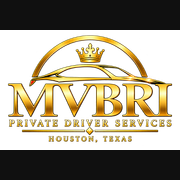
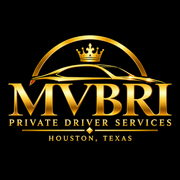
Polish MVBRI branding and remove the optional tip cap

diff --git a/privacy.html b/privacy.html
@@ -1,1 +1,1 @@
-<!doctype html><html lang="en"><head><meta charset="utf-8"><meta name="viewport" content="width=device-width,initial-scale=1"><title>Privacy | MVBRI</title><link rel="icon" href="/favicon.ico"><link rel="stylesheet" href="/assets/branding.css"><style>body{margin:0;background:#101010;color:#f6f3ed;font:16px/1.7 Arial,sans-serif}main{max-width:760px;margin:35px auto;padding:25px}h1,h2{font-family:Georgia,serif}a{color:#c8a96b}</style></head><body><main><a href="/"><img class="brand-logo" src="/assets/mvbri-logo.png" alt="MVBRI" width="156" height="104"></a><h1>Privacy notice</h1><p>MVBRI uses the name, phone number, email address, route, date, time and other ride details you submit to manage requests, provide quotes and deliver your ride. Please do not enter card numbers, medical details or other sensitive information in the booking form or messages.</p><h2>Ride updates</h2><p>Automated updates are optional. You can choose email, text messages or no automated updates. Messages may cover your request, quote, booking status, payments, and a receipt and optional tip link after completion and verified payment. Message frequency varies with your ride. Message and data rates may apply to texts.</p><p>Mobile numbers and SMS opt-in consent are not shared with third parties or affiliates for marketing or promotional purposes. Information needed to deliver your selected updates may be processed by our messaging service providers. We do not sell your messaging consent.</p><h2>Payments and service providers</h2><p>Booking records are stored using Cloudflare. Square securely handles payments; MVBRI does not collect card details on this site. Your booking name and email may be shared with Square to prepare a balance invoice. Email updates use our email provider; text updates use our connected business messaging provider when activated. Private customer information and messages are restricted to authorized business access.</p><h2>Your choices</h2><p>Use the preference link in an email to change or stop automated ride updates. Reply STOP to stop texts or HELP for help. Contact us to ask about your booking information or communication preference. Declining automated messages does not prevent you from requesting a ride.</p><p>Customer reviews are published only with permission and owner moderation. Published reviews exclude booking references and contact details.</p><h2>Contact</h2><p>MVBRI · Houston, Texas<br><a href="tel:+13465575796">(346) 557-5796</a><br><a href="mailto:mvbriofficial@gmail.com">mvbriofficial@gmail.com</a></p><p><a href="/messaging-terms.html">Messaging terms</a> · <a href="/">Return home</a></p></main></body></html>
+<!doctype html><html lang="en"><head><meta charset="utf-8"><meta name="viewport" content="width=device-width,initial-scale=1"><meta name="theme-color" content="#000000"><title>Privacy | MVBRI</title><link rel="icon" href="/favicon.ico?v=2"><link rel="icon" href="/assets/favicon.png?v=2" type="image/png" sizes="64x64"><link rel="apple-touch-icon" href="/assets/apple-touch-icon.png?v=2"><link rel="stylesheet" href="/assets/branding.css"><style>body{margin:0;background:#101010;color:#f6f3ed;font:16px/1.7 Arial,sans-serif}main{max-width:760px;margin:35px auto;padding:25px}h1,h2{font-family:Georgia,serif}a{color:#c8a96b}</style></head><body><main><a href="/"><img class="brand-logo" src="/assets/mvbri-logo.png" alt="MVBRI" width="156" height="104"></a><h1>Privacy notice</h1><p>MVBRI uses the name, phone number, email address, route, date, time and other ride details you submit to manage requests, provide quotes and deliver your ride. Please do not enter card numbers, medical details or other sensitive information in the booking form or messages.</p><h2>Ride updates</h2><p>Automated updates are optional. You can choose email, text messages or no automated updates. Messages may cover your request, quote, booking status, payments, and a receipt and optional tip link after completion and verified payment. Message frequency varies with your ride. Message and data rates may apply to texts.</p><p>Mobile numbers and SMS opt-in consent are not shared with third parties or affiliates for marketing or promotional purposes. Information needed to deliver your selected updates may be processed by our messaging service providers. We do not sell your messaging consent.</p><h2>Payments and service providers</h2><p>Booking records are stored using Cloudflare. Square securely handles payments; MVBRI does not collect card details on this site. Your booking name and email may be shared with Square to prepare a balance invoice. Email updates use our email provider; text updates use our connected business messaging provider when activated. Private customer information and messages are restricted to authorized business access.</p><h2>Your choices</h2><p>Use the preference link in an email to change or stop automated ride updates. Reply STOP to stop texts or HELP for help. Contact us to ask about your booking information or communication preference. Declining automated messages does not prevent you from requesting a ride.</p><p>Customer reviews are published only with permission and owner moderation. Published reviews exclude booking references and contact details.</p><h2>Contact</h2><p>MVBRI · Houston, Texas<br><a href="tel:+13465575796">(346) 557-5796</a><br><a href="mailto:mvbriofficial@gmail.com">mvbriofficial@gmail.com</a></p><p><a href="/messaging-terms.html">Messaging terms</a> · <a href="/">Return home</a></p></main></body></html>

diff --git a/tip.html b/tip.html
@@ -1,4 +1,4 @@
-<!doctype html><html lang="en"><head><meta charset="utf-8"><meta name="viewport" content="width=device-width,initial-scale=1"><meta name="robots" content="noindex,nofollow,noarchive"><meta name="referrer" content="no-referrer"><title>Optional Tip | MVBRI</title><link rel="icon" href="/favicon.ico" sizes="any"><link rel="icon" href="/assets/favicon.png" type="image/png" sizes="64x64"><link rel="apple-touch-icon" href="/assets/apple-touch-icon.png"><link rel="stylesheet" href="/assets/branding.css"><link rel="stylesheet" href="/assets/postride.css"></head><body><main class="card"><img class="brand-logo" src="/assets/mvbri-logo.png" alt="MVBRI" width="192" height="128"><div class="eyebrow">A small thank-you, if you wish</div><h1>Leave an optional tip</h1><p>Your ride fare is paid. Gratuities are entirely voluntary and do not affect the service you receive.</p><div id="testNotice" class="hidden">Test checkout — use test payment details only.</div><p id="status" class="status" role="status" aria-live="polite">Checking your private tip link…</p><form id="tipForm" class="hidden"><label for="tipAmount">Your optional tip (USD)</label><input id="tipAmount" type="number" min="1" max="500" step="0.01" inputmode="decimal" placeholder="Choose an amount" required><p class="muted" id="amountHint">Choose $1–$500. The amount is saved when checkout is prepared so retries cannot create a second tip.</p><button class="btn" id="checkout" type="submit">Continue to secure tip checkout</button><button class="btn ghost hidden" id="checkTip" type="button">Check tip payment</button></form><a class="back hidden" id="receiptLink">View your receipt</a><a class="back" href="/">Return to MVBRI</a><p class="muted">MVBRI · Houston, Texas · (346) 557-5796<br>Card information is entered only in secure Square checkout.</p></main><script>
+<!doctype html><html lang="en"><head><meta charset="utf-8"><meta name="viewport" content="width=device-width,initial-scale=1"><meta name="robots" content="noindex,nofollow,noarchive"><meta name="referrer" content="no-referrer"><meta name="theme-color" content="#000000"><title>Optional Tip | MVBRI</title><link rel="icon" href="/favicon.ico?v=2" sizes="any"><link rel="icon" href="/assets/favicon.png?v=2" type="image/png" sizes="64x64"><link rel="apple-touch-icon" href="/assets/apple-touch-icon.png?v=2"><link rel="stylesheet" href="/assets/branding.css"><link rel="stylesheet" href="/assets/postride.css"></head><body><main class="card"><img class="brand-logo" src="/assets/mvbri-logo.png" alt="MVBRI" width="192" height="128"><div class="eyebrow">A small thank-you, if you wish</div><h1>Leave an optional tip</h1><p>Your ride fare is paid. Gratuities are entirely voluntary and do not affect the service you receive.</p><div id="testNotice" class="hidden">Test checkout — use test payment details only.</div><p id="status" class="status" role="status" aria-live="polite">Checking your private tip link…</p><form id="tipForm" class="hidden"><label for="tipAmount">Your optional tip (USD)</label><input id="tipAmount" type="number" min="1" step="0.01" inputmode="decimal" placeholder="Choose an amount" required><p class="muted" id="amountHint">Enter $1 or more. The amount is saved when checkout is prepared so retries cannot create a second tip.</p><button class="btn" id="checkout" type="submit">Continue to secure tip checkout</button><button class="btn ghost hidden" id="checkTip" type="button">Check tip payment</button></form><a class="back hidden" id="receiptLink">View your receipt</a><a class="back" href="/">Return to MVBRI</a><p class="muted">MVBRI · Houston, Texas · (346) 557-5796<br>Card information is entered only in secure Square checkout.</p></main><script>
 const p=new URLSearchParams(location.search),reference=p.get('ref')||'',token=p.get('token')||'',form=document.getElementById('tipForm'),statusBox=document.getElementById('status'),amount=document.getElementById('tipAmount'),checkout=document.getElementById('checkout'),check=document.getElementById('checkTip');
 const money=v=>new Intl.NumberFormat('en-US',{style:'currency',currency:'USD'}).format(v);
 async function api(body){const response=await fetch('/api/tip-checkout'+(body?'':'?'+new URLSearchParams({ref:reference,token})),{...(body?{method:'POST',headers:{'Content-Type':'application/json'},body:JSON.stringify({reference,token,...body})}:{}),cache:'no-store',referrerPolicy:'no-referrer'}),data=await response.json();if(!response.ok)throw new Error(data.error||'Optional tip unavailable.');return data;}

diff --git a/updates.html b/updates.html
@@ -1,4 +1,4 @@
-<!doctype html><html lang="en"><head><meta charset="utf-8"><meta name="viewport" content="width=device-width,initial-scale=1"><meta name="robots" content="noindex,nofollow"><meta name="referrer" content="no-referrer"><title>Ride Update Preferences | MVBRI</title><link rel="icon" href="/favicon.ico"><link rel="apple-touch-icon" href="/assets/apple-touch-icon.png"><link rel="stylesheet" href="/assets/branding.css"><style>body{margin:0;background:#101010;color:#f6f3ed;font:16px/1.6 Arial,sans-serif}main{max-width:560px;margin:40px auto;padding:28px;background:#191919;border:1px solid #51452e}h1{font:32px Georgia,serif}select,button{width:100%;padding:13px;margin:12px 0;font:inherit}button{background:#c8a96b;border:0;cursor:pointer}a{color:#c8a96b}p{color:#c7c1b6}.sms-consent{color:#f6f3ed}</style></head><body><main><img class="brand-logo customer-logo" src="/assets/mvbri-logo.png" alt="MVBRI" width="192" height="128"><h1>Ride update preferences</h1><p>Choose how you want updates about this ride. Changing this preference does not cancel your booking.</p><form id="preferenceForm" hidden><label for="channel">Update method</label><select id="channel"><option value="none">No automated updates</option><option value="email">Email</option><option value="sms">Text message</option></select><div id="consentWrap" hidden><label class="sms-consent"><input id="consent" type="checkbox">I agree to receive MVBRI texts about this ride, quotes, payments, and post-ride receipt/optional tip links. Message frequency varies. Message and data rates may apply. Reply STOP to opt out or HELP for help. Consent is not required to request a ride.</label></div><button type="submit">Save update preference</button></form><p id="status" role="status" aria-live="polite">Loading your preference…</p><p><a href="/privacy.html">Privacy</a> · <a href="/messaging-terms.html">Messaging terms</a> · <a href="/">MVBRI home</a></p></main><script type="module">
+<!doctype html><html lang="en"><head><meta charset="utf-8"><meta name="viewport" content="width=device-width,initial-scale=1"><meta name="robots" content="noindex,nofollow"><meta name="referrer" content="no-referrer"><meta name="theme-color" content="#000000"><title>Ride Update Preferences | MVBRI</title><link rel="icon" href="/favicon.ico?v=2"><link rel="icon" href="/assets/favicon.png?v=2" type="image/png" sizes="64x64"><link rel="apple-touch-icon" href="/assets/apple-touch-icon.png?v=2"><link rel="stylesheet" href="/assets/branding.css"><style>body{margin:0;background:#101010;color:#f6f3ed;font:16px/1.6 Arial,sans-serif}main{max-width:560px;margin:40px auto;padding:28px;background:#191919;border:1px solid #51452e}h1{font:32px Georgia,serif}select,button{width:100%;padding:13px;margin:12px 0;font:inherit}button{background:#c8a96b;border:0;cursor:pointer}a{color:#c8a96b}p{color:#c7c1b6}.sms-consent{color:#f6f3ed}</style></head><body><main><img class="brand-logo customer-logo" src="/assets/mvbri-logo.png" alt="MVBRI" width="192" height="128"><h1>Ride update preferences</h1><p>Choose how you want updates about this ride. Changing this preference does not cancel your booking.</p><form id="preferenceForm" hidden><label for="channel">Update method</label><select id="channel"><option value="none">No automated updates</option><option value="email">Email</option><option value="sms">Text message</option></select><div id="consentWrap" hidden><label class="sms-consent"><input id="consent" type="checkbox">I agree to receive MVBRI texts about this ride, quotes, payments, and post-ride receipt/optional tip links. Message frequency varies. Message and data rates may apply. Reply STOP to opt out or HELP for help. Consent is not required to request a ride.</label></div><button type="submit">Save update preference</button></form><p id="status" role="status" aria-live="polite">Loading your preference…</p><p><a href="/privacy.html">Privacy</a> · <a href="/messaging-terms.html">Messaging terms</a> · <a href="/">MVBRI home</a></p></main><script type="module">
 const params=new URLSearchParams(location.search),reference=params.get('ref'),token=params.get('token');
 const form=document.getElementById('preferenceForm'),channel=document.getElementById('channel'),consent=document.getElementById('consent'),status=document.getElementById('status');
 channel.addEventListener('change',()=>{const sms=channel.value==='sms';document.getElementById('consentWrap').hidden=!sms;consent.required=sms;consent.checked=false;});

diff --git a/messaging-terms.html b/messaging-terms.html
@@ -1,1 +1,1 @@
-<!doctype html><html lang="en"><head><meta charset="utf-8"><meta name="viewport" content="width=device-width,initial-scale=1"><title>Messaging Terms | MVBRI</title><link rel="icon" href="/favicon.ico"><link rel="stylesheet" href="/assets/branding.css"><style>body{margin:0;background:#101010;color:#f6f3ed;font:16px/1.7 Arial,sans-serif}main{max-width:760px;margin:35px auto;padding:25px}a{color:#c8a96b}h1,h2{font-family:Georgia,serif}</style></head><body><main><a href="/"><img class="brand-logo" src="/assets/mvbri-logo.png" alt="MVBRI" width="156" height="104"></a><h1>Ride messaging terms</h1><p>MVBRI offers optional service messages about your ride. To receive texts, select text updates in the booking form or update-preference page and check the SMS consent box. Selecting email authorizes email updates for that ride. You can also select no automated updates.</p><p>Messages may include booking and quote updates, responses to ride questions, payment confirmation, and post-ride receipt and optional tip links. Message frequency varies with the ride and your conversations with MVBRI. Message and data rates may apply. Giving SMS consent is not a condition of purchasing or requesting transportation.</p><h2>Stopping texts and getting help</h2><p>Reply STOP to stop text messages. You may receive a confirmation from the messaging service. Reply HELP for support, or call <a href="tel:+13465575796">(346) 557-5796</a> or email <a href="mailto:mvbriofficial@gmail.com">mvbriofficial@gmail.com</a>. After opting out, reply START from your phone if you want to resume texts.</p><p>Carriers are not liable for delayed or undelivered messages. Contact MVBRI directly about urgent ride changes. A request or quote is subject to availability and confirmation; a message delivery failure does not confirm or cancel a ride by itself.</p><p><a href="/privacy.html">Privacy notice</a> · <a href="/">Return home</a></p></main></body></html>
+<!doctype html><html lang="en"><head><meta charset="utf-8"><meta name="viewport" content="width=device-width,initial-scale=1"><meta name="theme-color" content="#000000"><title>Messaging Terms | MVBRI</title><link rel="icon" href="/favicon.ico?v=2"><link rel="icon" href="/assets/favicon.png?v=2" type="image/png" sizes="64x64"><link rel="apple-touch-icon" href="/assets/apple-touch-icon.png?v=2"><link rel="stylesheet" href="/assets/branding.css"><style>body{margin:0;background:#101010;color:#f6f3ed;font:16px/1.7 Arial,sans-serif}main{max-width:760px;margin:35px auto;padding:25px}a{color:#c8a96b}h1,h2{font-family:Georgia,serif}</style></head><body><main><a href="/"><img class="brand-logo" src="/assets/mvbri-logo.png" alt="MVBRI" width="156" height="104"></a><h1>Ride messaging terms</h1><p>MVBRI offers optional service messages about your ride. To receive texts, select text updates in the booking form or update-preference page and check the SMS consent box. Selecting email authorizes email updates for that ride. You can also select no automated updates.</p><p>Messages may include booking and quote updates, responses to ride questions, payment confirmation, and post-ride receipt and optional tip links. Message frequency varies with the ride and your conversations with MVBRI. Message and data rates may apply. Giving SMS consent is not a condition of purchasing or requesting transportation.</p><h2>Stopping texts and getting help</h2><p>Reply STOP to stop text messages. You may receive a confirmation from the messaging service. Reply HELP for support, or call <a href="tel:+13465575796">(346) 557-5796</a> or email <a href="mailto:mvbriofficial@gmail.com">mvbriofficial@gmail.com</a>. After opting out, reply START from your phone if you want to resume texts.</p><p>Carriers are not liable for delayed or undelivered messages. Contact MVBRI directly about urgent ride changes. A request or quote is subject to availability and confirmation; a message delivery failure does not confirm or cancel a ride by itself.</p><p><a href="/privacy.html">Privacy notice</a> · <a href="/">Return home</a></p></main></body></html>

diff --git a/owner.html b/owner.html
@@ -3,7 +3,7 @@
 <head>
 <meta charset="utf-8"><meta name="viewport" content="width=device-width,initial-scale=1">
 <meta name="robots" content="noindex,nofollow">
-<meta name="theme-color" content="#101010">
+<meta name="theme-color" content="#000000">
 <title>MVBRI / Owner</title>
 <meta name="referrer" content="no-referrer">
 <link rel="preconnect" href="https://fonts.googleapis.com">
@@ -14,9 +14,9 @@
 *{box-sizing:border-box}body{margin:0;background:var(--bg);color:#f7f5f0;font-family:"DM Sans",Arial,sans-serif;line-height:1.5}
 .wrap{width:min(1200px,calc(100% - 32px));margin:auto}.bar{border-bottom:1px solid var(--line);padding:18px 0}.barin{display:flex;align-items:center;justify-content:space-between;gap:14px}.brand{font-size:12px;letter-spacing:.18em;font-weight:700}.brand span{color:var(--gold)}h1,h2,h3{font-family:"Playfair Display",Georgia,serif;font-weight:500}h1{font-size:clamp(32px,4vw,46px);margin:26px 0 6px}p{color:var(--muted)}.sub{margin-top:0}.btn{border:1px solid var(--gold);background:var(--gold);color:#17140e;padding:11px 16px;font-weight:700;cursor:pointer;font-size:12px;letter-spacing:.05em}.btn.ghost{background:transparent;color:var(--gold)}.btn.danger{background:#3b2020;border-color:#8f5151;color:#ffdede}.btn:disabled{opacity:.5;cursor:not-allowed}.panel{background:var(--panel);border:1px solid var(--line);padding:24px;margin:20px 0}.login{max-width:460px;margin:55px auto}.field{display:grid;gap:7px;margin:15px 0}label{font-size:11px;text-transform:uppercase;letter-spacing:.08em}input,select,textarea{background:#0f0f0f;color:#fff;border:1px solid #4a453b;padding:13px;font:inherit;width:100%}.status{font-size:12px;min-height:20px;color:var(--gold)}.toolbar{display:flex;gap:12px;align-items:center;flex-wrap:wrap;margin:22px 0}.toolbar select{width:auto;min-width:170px}.stats{display:grid;grid-template-columns:repeat(4,1fr);gap:12px}.stat{border:1px solid var(--line);background:var(--panel);padding:16px}.stat small{display:block;color:var(--muted);font-size:11px;text-transform:uppercase;letter-spacing:.1em}.stat strong{font-size:28px;color:var(--gold)}.list{display:grid;gap:14px;margin:18px 0}.booking{border:1px solid var(--line);background:var(--panel);padding:20px}.bookinghead{display:flex;justify-content:space-between;gap:12px;flex-wrap:wrap}.ref{color:var(--gold);font-size:11px;letter-spacing:.1em}.pill{font-size:10px;text-transform:uppercase;letter-spacing:.1em;padding:5px 8px;border:1px solid var(--line);color:#e5d6b6}.route{font-size:17px;margin:12px 0;font-weight:600}.details{display:grid;grid-template-columns:repeat(3,1fr);gap:12px;color:#d1ccc3;font-size:13px}.details b{display:block;color:#9f988c;font-size:10px;text-transform:uppercase;letter-spacing:.08em;font-weight:600}.notes{font-size:13px;color:#bcb6ab;white-space:pre-wrap}.actions{display:flex;align-items:center;gap:8px;flex-wrap:wrap;margin-top:17px}.actions select{width:auto;min-width:150px}.empty{border:1px dashed var(--line);padding:30px;text-align:center;color:var(--muted)}.hidden,[hidden]{display:none!important}.privacy{font-size:11px;color:#8f887c;margin:30px 0}a{color:var(--gold)}@media(max-width:700px){.stats{grid-template-columns:repeat(2,1fr)}.details{grid-template-columns:1fr 1fr}.panel{padding:18px}.booking{padding:16px}}@media(max-width:420px){.details{grid-template-columns:1fr}.barin{align-items:flex-start}}
 </style>
-<link rel="icon" href="/favicon.ico" sizes="any">
-<link rel="icon" href="/assets/favicon.png" type="image/png" sizes="64x64">
-<link rel="apple-touch-icon" href="/assets/apple-touch-icon.png">
+<link rel="icon" href="/favicon.ico?v=2" sizes="any">
+<link rel="icon" href="/assets/favicon.png?v=2" type="image/png" sizes="64x64">
+<link rel="apple-touch-icon" href="/assets/apple-touch-icon.png?v=2">
 <link rel="stylesheet" href="/assets/branding.css">
 </head>
 <body>

diff --git a/receipt.html b/receipt.html
@@ -1,4 +1,4 @@
-<!doctype html><html lang="en"><head><meta charset="utf-8"><meta name="viewport" content="width=device-width,initial-scale=1"><meta name="robots" content="noindex,nofollow,noarchive"><meta name="referrer" content="no-referrer"><title>Your Receipt | MVBRI</title><link rel="icon" href="/favicon.ico" sizes="any"><link rel="icon" href="/assets/favicon.png" type="image/png" sizes="64x64"><link rel="apple-touch-icon" href="/assets/apple-touch-icon.png"><link rel="stylesheet" href="/assets/branding.css"><link rel="stylesheet" href="/assets/postride.css"></head><body><main class="card"><img class="brand-logo" src="/assets/mvbri-logo.png" alt="MVBRI" width="192" height="128"><div class="eyebrow">Thank you for riding with MVBRI</div><h1>Your ride receipt</h1><div id="testNotice" class="hidden">Test receipt — no real payment.</div><p id="status" class="status" role="status" aria-live="polite">Loading your private receipt…</p><div id="receipt" class="hidden"><p id="reference"></p><div class="rows" id="amounts"></div><p id="paidAt" class="muted"></p><p>Gratuities are optional. Thank you for choosing MVBRI.</p><a class="btn" id="tipLink">Leave an optional tip</a><button class="btn ghost" id="printReceipt" type="button">Print receipt</button></div><p class="muted">MVBRI · Houston, Texas<br>(346) 557-5796 · mvbriofficial@gmail.com</p><a class="back" href="/">Return to MVBRI</a></main><script>
+<!doctype html><html lang="en"><head><meta charset="utf-8"><meta name="viewport" content="width=device-width,initial-scale=1"><meta name="robots" content="noindex,nofollow,noarchive"><meta name="referrer" content="no-referrer"><meta name="theme-color" content="#000000"><title>Your Receipt | MVBRI</title><link rel="icon" href="/favicon.ico?v=2" sizes="any"><link rel="icon" href="/assets/favicon.png?v=2" type="image/png" sizes="64x64"><link rel="apple-touch-icon" href="/assets/apple-touch-icon.png?v=2"><link rel="stylesheet" href="/assets/branding.css"><link rel="stylesheet" href="/assets/postride.css"></head><body><main class="card"><img class="brand-logo" src="/assets/mvbri-logo.png" alt="MVBRI" width="192" height="128"><div class="eyebrow">Thank you for riding with MVBRI</div><h1>Your ride receipt</h1><div id="testNotice" class="hidden">Test receipt — no real payment.</div><p id="status" class="status" role="status" aria-live="polite">Loading your private receipt…</p><div id="receipt" class="hidden"><p id="reference"></p><div class="rows" id="amounts"></div><p id="paidAt" class="muted"></p><p>Gratuities are optional. Thank you for choosing MVBRI.</p><a class="btn" id="tipLink">Leave an optional tip</a><button class="btn ghost" id="printReceipt" type="button">Print receipt</button></div><p class="muted">MVBRI · Houston, Texas<br>(346) 557-5796 · mvbriofficial@gmail.com</p><a class="back" href="/">Return to MVBRI</a></main><script>
 const statusBox=document.getElementById('status');
 document.getElementById('printReceipt').addEventListener('click',()=>window.print());
 (async()=>{try{

diff --git a/index.html b/index.html
@@ -4,8 +4,8 @@
   <meta charset="utf-8">
   <meta name="viewport" content="width=device-width, initial-scale=1">
   <meta name="description" content="Private chauffeur and limousine transportation. Request a ride for airport transfers, business travel, and special occasions.">
-  <meta name="theme-color" content="#101010">
-  <title>MVBRI | Private Driver Service · Houston</title>
+  <meta name="theme-color" content="#000000">
+  <title>MVBRI</title>
   <link rel="preconnect" href="https://fonts.googleapis.com">
   <link rel="preconnect" href="https://fonts.gstatic.com" crossorigin>
   <link href="https://fonts.googleapis.com/css2?family=DM+Sans:wght@400;500;600;700&family=Playfair+Display:wght@500;600;700&display=swap" rel="stylesheet">
@@ -16,7 +16,7 @@
     body{margin:0;background:var(--ink);color:#f7f5f0;font-family:"DM Sans",Arial,sans-serif;line-height:1.6}
     a{color:inherit}
     .wrap{width:min(1120px,calc(100% - 40px));margin:auto}
-    .topbar{border-bottom:1px solid #2b2925;background:#0c0c0c}
+    .topbar{border-bottom:1px solid #2b2925;background:#000}
     .nav{display:flex;justify-content:space-between;align-items:center;gap:20px;padding:18px 0}
     .brand{font-size:13px;letter-spacing:.2em;text-transform:uppercase;font-weight:700}
     .brand span{color:var(--gold)}
@@ -104,9 +104,9 @@
   };
 </script>
 <script src="https://challenges.cloudflare.com/turnstile/v0/api.js" async defer></script>
-<link rel="icon" href="/favicon.ico" sizes="any">
-<link rel="icon" href="/assets/favicon.png" type="image/png" sizes="64x64">
-<link rel="apple-touch-icon" href="/assets/apple-touch-icon.png">
+<link rel="icon" href="/favicon.ico?v=2" sizes="any">
+<link rel="icon" href="/assets/favicon.png?v=2" type="image/png" sizes="64x64">
+<link rel="apple-touch-icon" href="/assets/apple-touch-icon.png?v=2">
 <link rel="stylesheet" href="/assets/branding.css">
 </head>
 <body>

diff --git a/functions/_lib/square-tip.js b/functions/_lib/square-tip.js
@@ -1,9 +1,14 @@
 import {squareConfig,validCheckoutUrl} from './square.js';
 const problem=(message,status=409)=>Object.assign(new Error(message),{status});
+// This is Square's U.S. single-transaction limit, not an MVBRI gratuity limit.
+const squareUsdTransactionLimitCents = 5_000_000;
 export async function prepareTipCheckout(env,reference,amount){
  const config=squareConfig(env);if(!config)throw problem('Optional tips are not available yet.',503);
+ const amountError='Enter a tip of $1 or more, using up to two decimal places.';
+ if(typeof amount!=='number'||!Number.isFinite(amount)||amount<1)throw problem(amountError,400);
  const cents=Math.round(amount*100);
- if(typeof amount!=='number'||!Number.isFinite(amount)||Math.abs(amount*100-cents)>0.000001||cents<100||cents>50000)throw problem('Choose an optional tip between $1 and $500, with no more than two decimal places.',400);
+ if(amount>squareUsdTransactionLimitCents/100)throw problem('This amount exceeds Square’s single-payment limit. Enter a smaller tip.',400);
+ if(Math.abs(amount*100-cents)>0.000001)throw problem(amountError,400);
  const time=new Date().toISOString(),key='mvbri-tip-v1-'+reference;
  const payload=JSON.stringify({idempotency_key:key,quick_pay:{name:'MVBRI Optional Gratuity',price_money:{amount:cents,currency:'USD'},location_id:env.SQUARE_LOCATION_ID},checkout_options:{allow_tipping:false,ask_for_shipping_address:false,accepted_payment_methods:{apple_pay:config.mode==='production',google_pay:config.mode==='production',cash_app_pay:config.mode==='production',afterpay_clearpay:false}}});
  await env.DB.prepare(`INSERT OR IGNORE INTO square_tip_checkouts(quote_reference,amount_cents,square_environment,checkout_key,checkout_request,created_at,updated_at) VALUES (?,?,?,?,?,?,?)`).bind(reference,cents,config.mode,key,payload,time,time).run();

diff --git a/review.html b/review.html
@@ -6,6 +6,7 @@
   <meta name="viewport" content="width=device-width, initial-scale=1">
   <meta name="robots" content="noindex, nofollow">
   <meta name="referrer" content="no-referrer">
+  <meta name="theme-color" content="#000000">
   <title>Leave a Review | MVBRI</title>
   <style>
     * { box-sizing: border-box; }
@@ -19,6 +20,7 @@
       line-height: 1.6;
     }
     header {
+      background: #000;
       padding: 24px;
       text-align: center;
       border-bottom: 1px solid #35404a;
@@ -104,9 +106,9 @@
     .muted { color: #c5ced5; font-size: 14px; }
     a { color: #f0d294; }
   </style>
-<link rel="icon" href="/favicon.ico" sizes="any">
-<link rel="icon" href="/assets/favicon.png" type="image/png" sizes="64x64">
-<link rel="apple-touch-icon" href="/assets/apple-touch-icon.png">
+<link rel="icon" href="/favicon.ico?v=2" sizes="any">
+<link rel="icon" href="/assets/favicon.png?v=2" type="image/png" sizes="64x64">
+<link rel="apple-touch-icon" href="/assets/apple-touch-icon.png?v=2">
 <link rel="stylesheet" href="/assets/branding.css">
 </head>
 <body>

diff --git a/quote.html b/quote.html
@@ -6,7 +6,8 @@
   <meta name="viewport" content="width=device-width, initial-scale=1">
   <meta name="robots" content="noindex, nofollow">
   <meta name="referrer" content="no-referrer">
-  <title>Your Ride Quote | MVBRI</title>
+  <meta name="theme-color" content="#000000">
+  <title>MVBRI | Your Ride Quote</title>
   <style>
     :root {
       color-scheme: light;
@@ -28,7 +29,7 @@
     }
 
     header {
-      background: var(--navy);
+      background: #000;
       color: white;
       padding: 24px 18px;
       text-align: center;
@@ -161,9 +162,9 @@
   display: none !important;
 }
   </style>
-<link rel="icon" href="/favicon.ico" sizes="any">
-<link rel="icon" href="/assets/favicon.png" type="image/png" sizes="64x64">
-<link rel="apple-touch-icon" href="/assets/apple-touch-icon.png">
+<link rel="icon" href="/favicon.ico?v=2" sizes="any">
+<link rel="icon" href="/assets/favicon.png?v=2" type="image/png" sizes="64x64">
+<link rel="apple-touch-icon" href="/assets/apple-touch-icon.png?v=2">
 <link rel="stylesheet" href="/assets/branding.css">
 </head>
 <body>

diff --git a/reviews.html b/reviews.html
@@ -4,7 +4,8 @@
 <head>
   <meta charset="UTF-8">
   <meta name="viewport" content="width=device-width, initial-scale=1">
-  <title>Customer Reviews | MVBRI</title>
+  <meta name="theme-color" content="#000000">
+  <title>MVBRI | Customer Reviews</title>
   <style>
     * { box-sizing: border-box; }
     body {
@@ -15,7 +16,7 @@
       line-height: 1.6;
     }
     header {
-      background: #101c2c;
+      background: #000;
       color: white;
       padding: 36px 20px;
       text-align: center;
@@ -54,9 +55,9 @@
       color: #526173;
     }
   </style>
-<link rel="icon" href="/favicon.ico" sizes="any">
-<link rel="icon" href="/assets/favicon.png" type="image/png" sizes="64x64">
-<link rel="apple-touch-icon" href="/assets/apple-touch-icon.png">
+<link rel="icon" href="/favicon.ico?v=2" sizes="any">
+<link rel="icon" href="/assets/favicon.png?v=2" type="image/png" sizes="64x64">
+<link rel="apple-touch-icon" href="/assets/apple-touch-icon.png?v=2">
 <link rel="stylesheet" href="/assets/branding.css">
 </head>
 <body>
